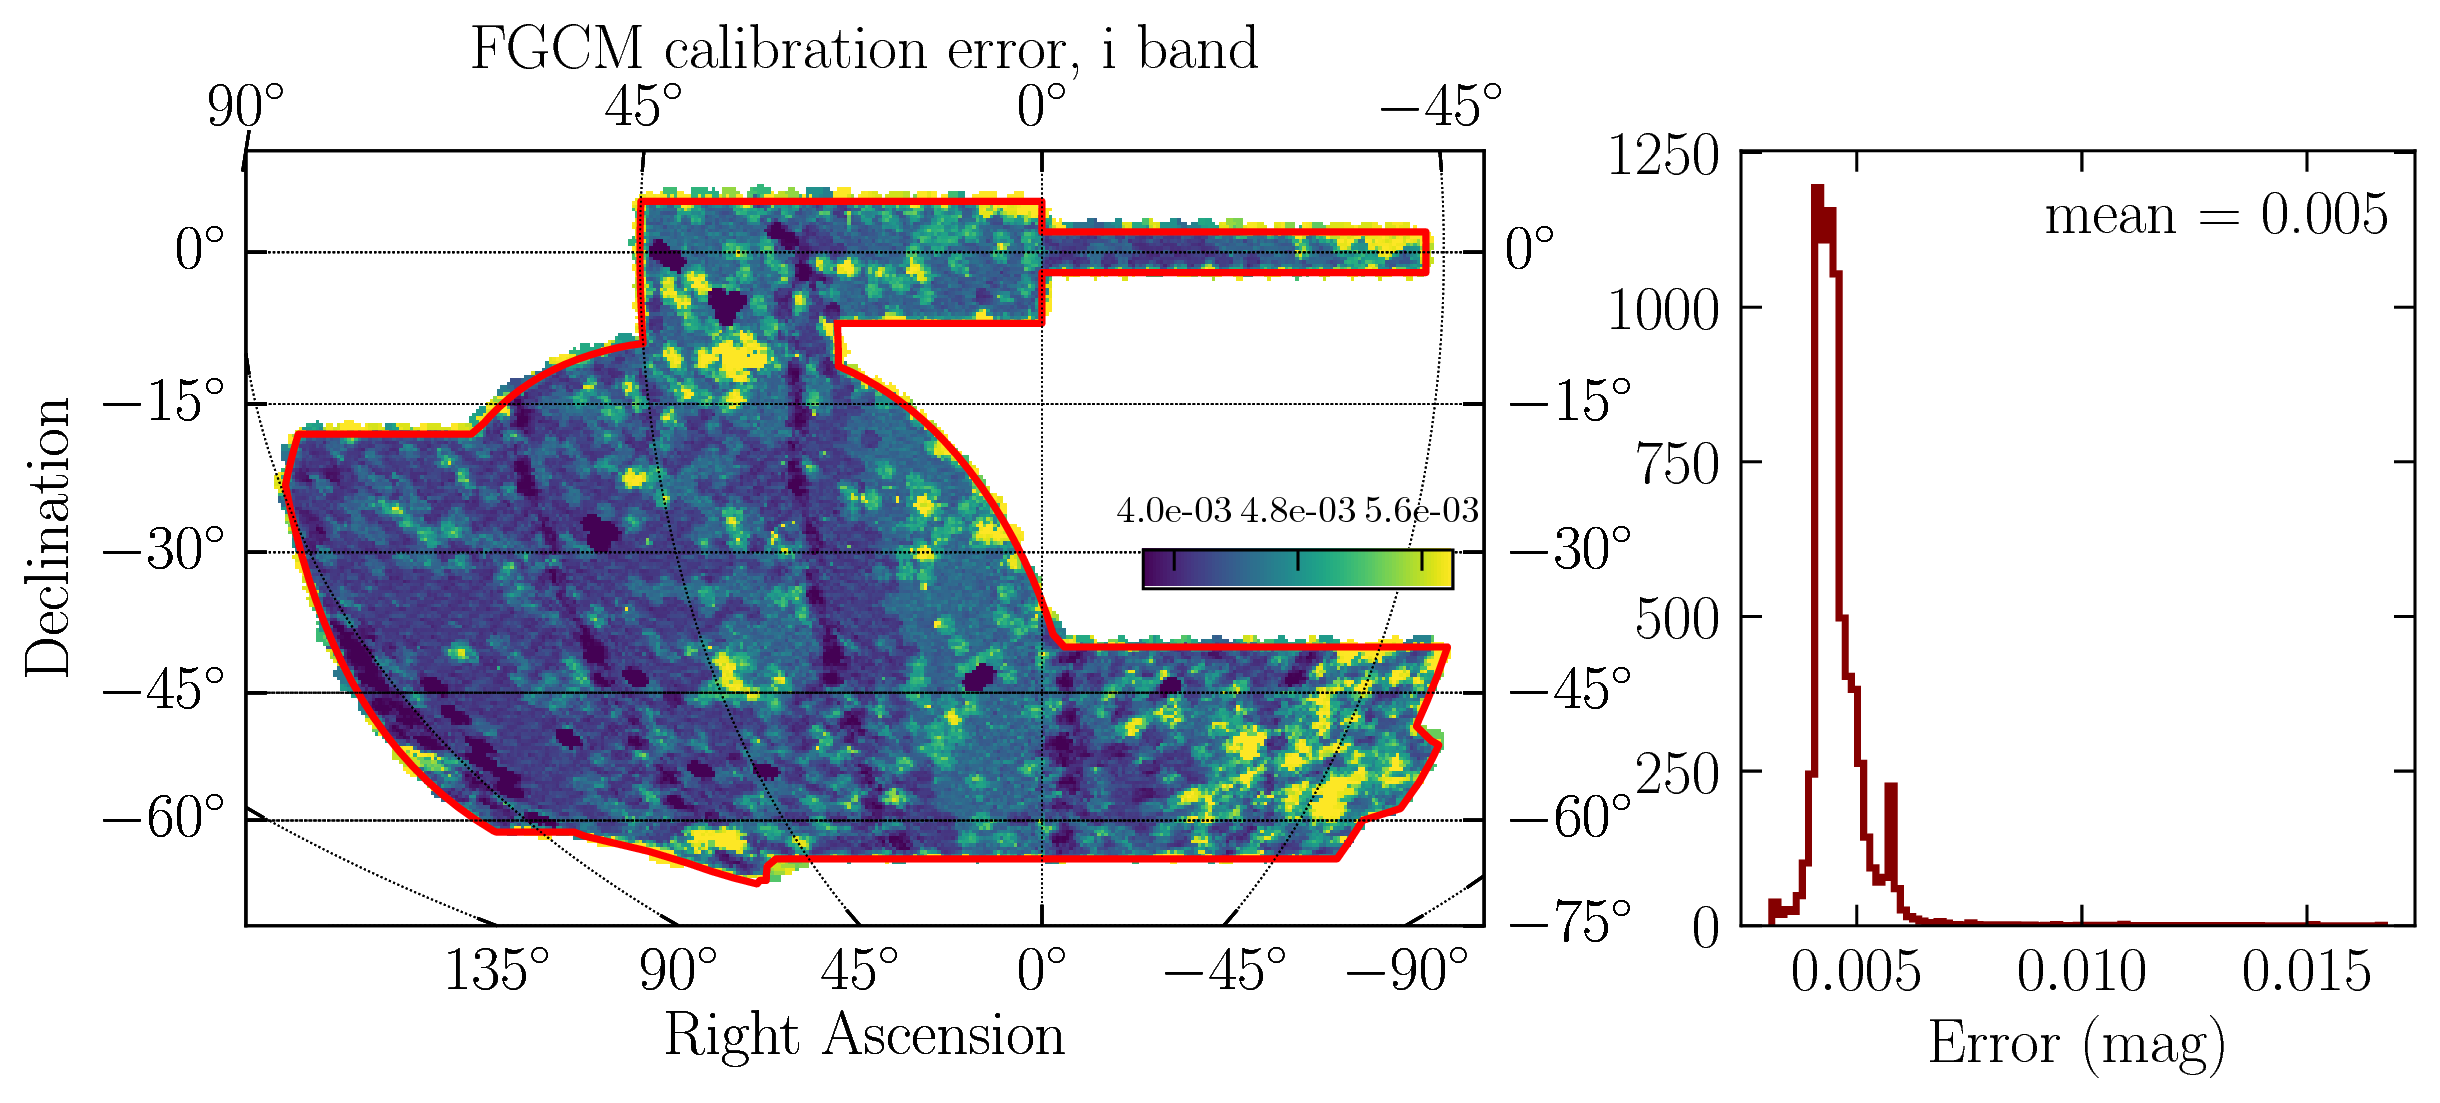
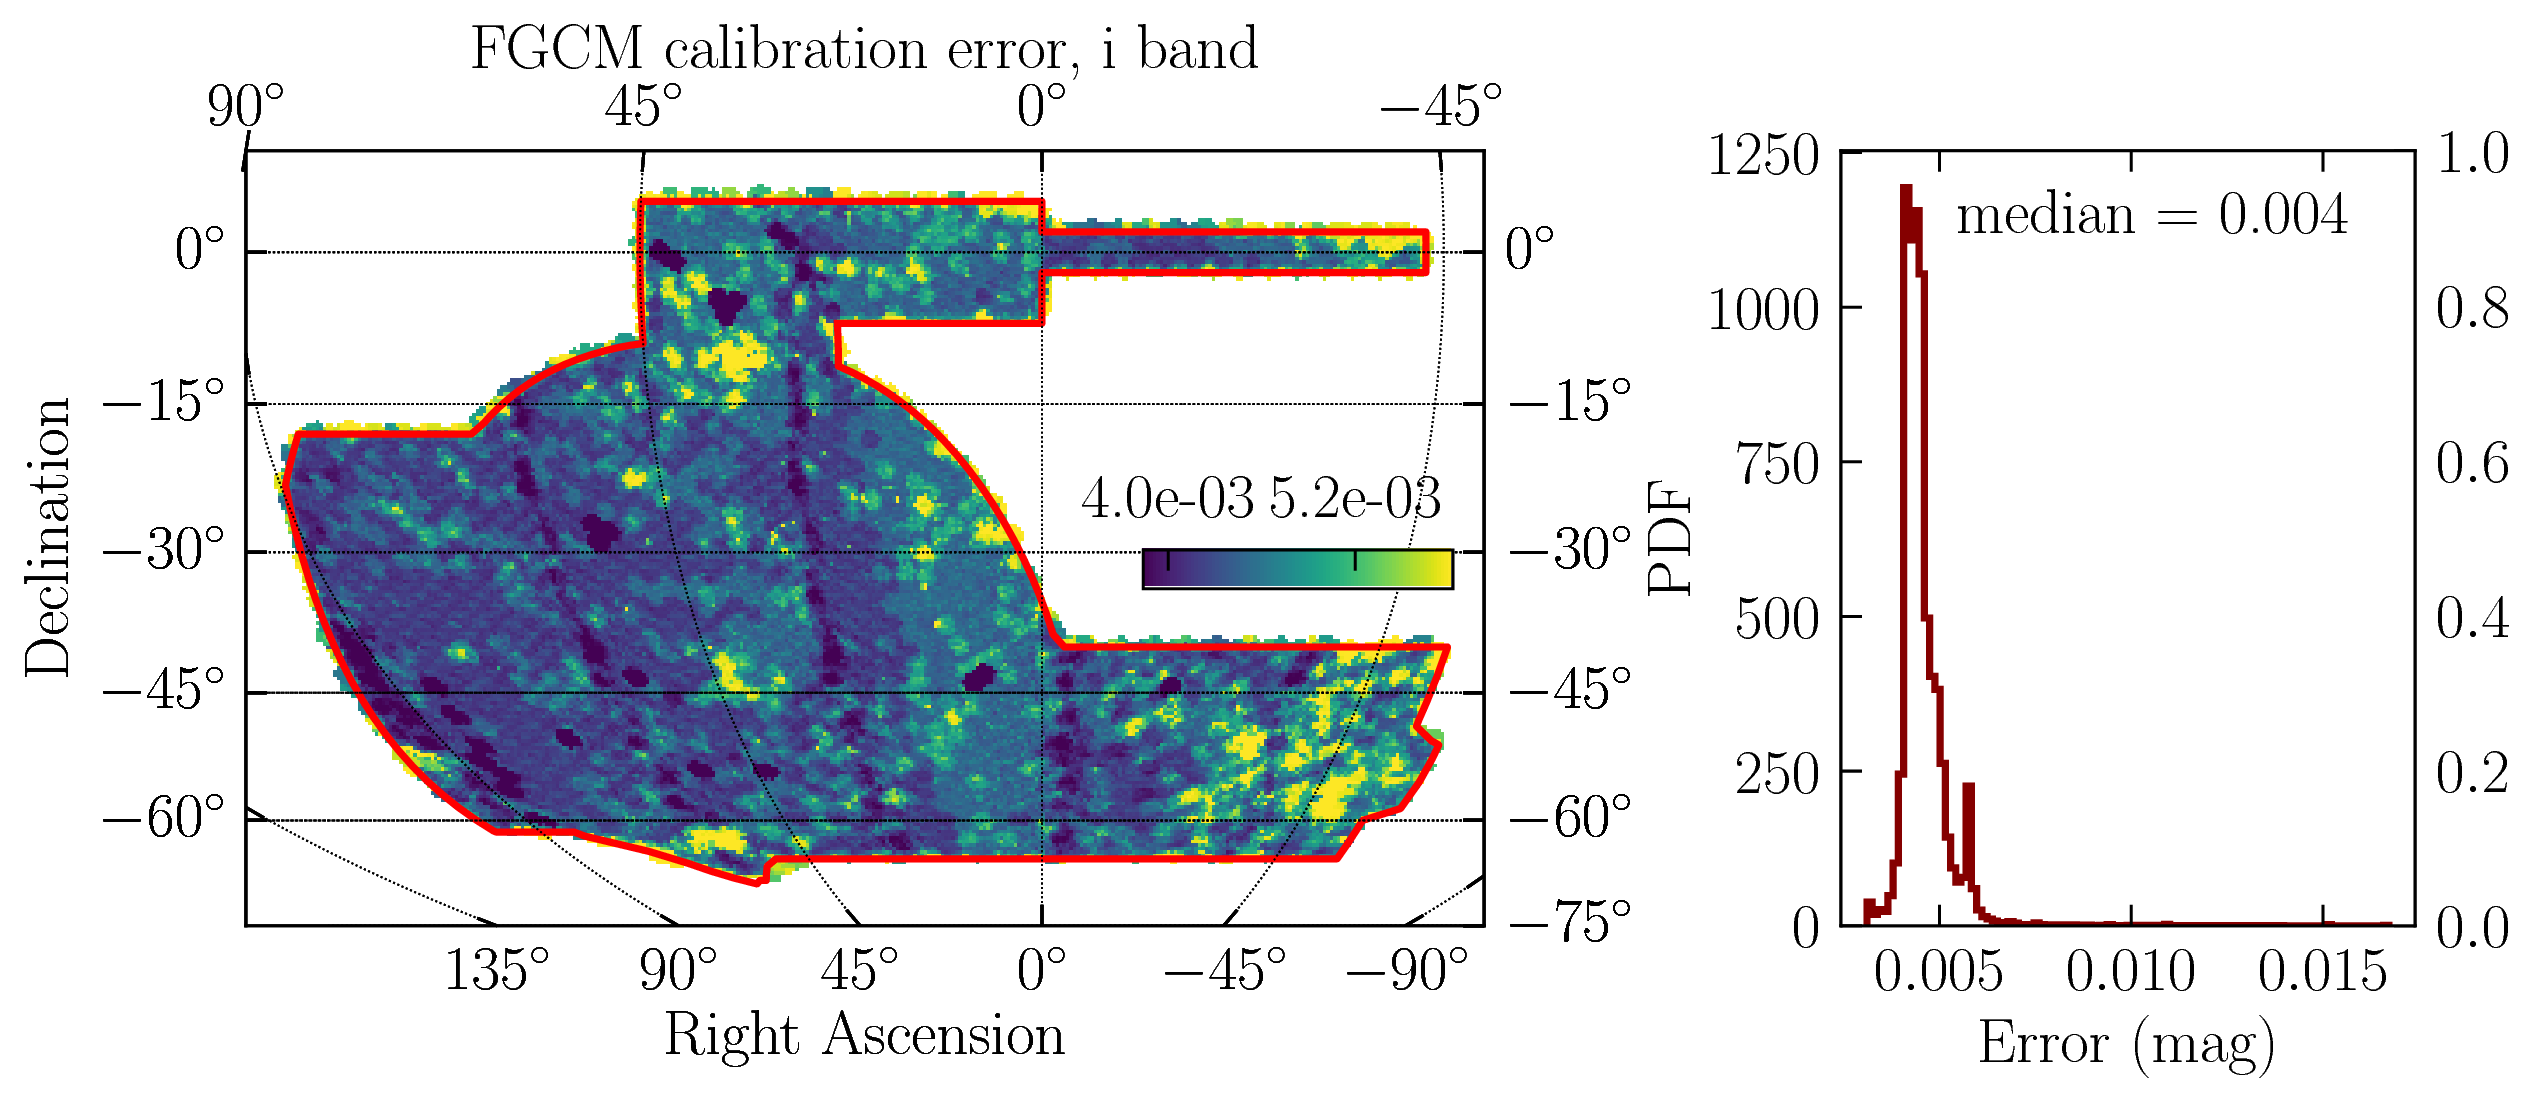
additions to dr1-quality

diff --git a/static/des_components/des-dr1/des-dr1-quality.html b/static/des_components/des-dr1/des-dr1-quality.html
@@ -18,25 +18,25 @@
 </style>
 
 <paper-dialog id="dialogfig1">
-        <des-img-big src="/static/images/dr1/gaia_astro_residual.png">Figure 1. Absolute astrometric precision against an external source, namely, Gaia stars with G<sub>Gaia</sub> ~ 16. On the left is plotted the mean value of astrometric discrepancy with Gaia vs sky position in a HEALPix cell of NSIDE = 256. On the right, the histogram of the overall offset is shown.</des-img-big>
+        <des-img-big src="/static/images/dr1/gaia_astro_residual.png">Figure 1. Absolute astrometric precision (total distance) measured using Gaia DR1 stars with G<sub>Gaia</sub> ~ 16 as an external reference. Left: Mean value of the astrometric discrepancy with respect to Gaia versus sky position computed within HEALPix cells of resolution nside = 256. Right: Normalized histogram showing the distribution of astrometric offsets.</des-img-big>
   <div class="buttons">
     <paper-button class="desButton" raised dialog-confirm autofocus>Close</paper-button>
   </div>
 </paper-dialog>
 <paper-dialog id="dialogfig2">
-       <des-img-big src="/static/images/dr1/fgcm_calib_error_i_nozpcorr.png">Figure 2. FGCM calibration error. On the left is plotted the mean value of this residual vs sky position in a HEALPix cell of NSIDE = 256. On the right, the histogram of the photometric residue is shown.</des-img-big>
+       <des-img-big src="/static/images/dr1/fgcm_calib_error_i_nozpcorr.png">Figure 2. Statistical uncertainty of coadd zeropoints in the i-band estimated from the FGCM photometric calibration. Left: Mean value of the uncertainty vs. sky position, computed within HEALPix cells of resolution nside = 256. Right: Normalized histogram showing the distribution of zeropoint uncertainties over the footprint.</des-img-big>
   <div class="buttons">
     <paper-button class="desButton" raised dialog-confirm autofocus>Close</paper-button>
   </div>
 </paper-dialog>
 <paper-dialog id="dialogfig3">
-       <des-img-big src="/static/images/dr1/gaia_phot_residual_nozpcorr.png">Figure 3.  The distribution of photometric residuals against the Gaia’s G band across the DES footprint is used the evaluate the uniformity of the coadd FGCM calibration. On the left is plotted the mean value of this residual vs sky position in a HEALPix cell of NSIDE = 256. On the right, the histogram of the photometric residue is shown.</des-img-big>
+       <des-img-big src="/static/images/dr1/gaia_phot_residual_nozpcorr.png">Figure 3. The distribution of photometric residuals against Gaia’s G band (mag units) across the DES footprint is used the evaluate the uniformity of the coadd FGCM calibration. Left: Mean value of this residual vs sky position in a HEALPix cell of nside = 256. Right: Normalized histogram of photometric residuals over the footprint.</des-img-big>
   <div class="buttons">
     <paper-button class="desButton" raised dialog-confirm autofocus>Close</paper-button>
   </div>
 </paper-dialog>
 <paper-dialog id="dialogfig4">
-       <des-img-big src="/static/images/dr1/dr1_magauto.png">Figure 4. Source counts using SExtractor’s MAG_AUTO quantity.</des-img-big>
+       <des-img-big src="/static/images/dr1/dr1_magauto.png">Figure 4.  Normalized histograms of source counts binned by SExtractor’s MAG_AUTO quantity showing the flux distribution of detected sources.</des-img-big>
   <div class="buttons">
     <paper-button class="desButton" raised dialog-confirm autofocus>Close</paper-button>
   </div>
@@ -48,7 +48,7 @@
   </div>
 </paper-dialog>
 <paper-dialog id="dialogfig6">
-       <des-img-big src="/static/images/dr1/dr1_maglim_hist.png">Figure 6. Catalog depth estimated for a 2'' aperture (MAG_AUTO_4) using mangle.<br /></des-img-big>
+       <des-img-big src="/static/images/dr1/dr1_maglim_hist.png">Figure 6. Catalog depth estimated for a 1.95'' aperture (MAG_APER_4) using mangle.<br /></des-img-big>
   <div class="buttons">
     <paper-button class="desButton" raised dialog-confirm autofocus>Close</paper-button>
   </div>
@@ -90,7 +90,7 @@
   </div>
 </paper-dialog>
 <paper-dialog id="dialogfig13">
-    <des-img-big src="/static/images/dr1/dr1_roc.png">Figure 13.  Receiver operating characteristic (ROC) curve for a stellar selection in the magnitude range 22.5 &lt; MAG_AUTO_I &lt; 23.0. The SPREAD_MODEL outperforms CLASS_STAR in classification accuracy of DES DR1 objects with respect to HSC-SSP.</des-img-big>
+    <des-img-big src="/static/images/dr1/dr1_roc_22.0_22.5.png">Figure 13. Receiver operating characteristic (ROC) curve for a stellar selection in the magnitude range 22.0 < MAG_AUTO_I < 22.5. The SPREAD_MODEL outperforms CLASS_STAR in classification accuracy of DES DR1 objects with respect to HSC-SSP.</des-img-big>
   <div class="buttons">
     <paper-button class="desButton" raised dialog-confirm autofocus>Close</paper-button>
   </div>
@@ -141,7 +141,7 @@
             <br /><a href="javascript:void(0)" on-tap="_dialog" data-item="1"/>Figure 1</a> shows that the residuals are smallest in regions with with larger stellar densities closer to the Galactic plane (for comparison, see <a href="javascript:void(0)" on-tap="_dialog" data-item="10"/>Figure 10</a> ), and the mean over the footprint is ~145 mas. Further details of astrometric calibration, including ongoing development using Gaia as a reference catalog, are provided in <a href="http://adsabs.harvard.edu/abs/2017PASP..129g4503B">Bernstein et al. (2017b</a>).</p>
         <p><br /> </p>
 
-        <des-img-big src="/static/images/dr1/gaia_astro_residual.png" on-tap="_dialog" data-item="1">Figure 1. Absolute astrometric precision against an external source, namely, Gaia stars with G<sub>Gaia</sub> ~ 16. On the left is plotted the mean value of astrometric discrepancy with Gaia vs sky position in a HEALPix cell of NSIDE = 256. On the right, the histogram of the overall offset is shown.</des-img-big>
+        <des-img-big src="/static/images/dr1/gaia_astro_residual.png" on-tap="_dialog" data-item="1">Figure 1.  Absolute astrometric precision (total distance) measured using Gaia DR1 stars with G<sub>Gaia</sub> ~ 16 as an external reference. Left: Mean value of the astrometric discrepancy with respect to Gaia versus sky position computed within HEALPix cells of resolution nside = 256. Right: Normalized histogram showing the distribution of astrometric offsets</des-img-big>
 
         <div class="fixup" id="quality_photo"></div>
         <h3 class="fixdown">Photometry  &nbsp; &nbsp; <a style="font-size:13px" href="javascript:void(0)" on-tap="_top">(Top)</a></h3>
@@ -150,12 +150,12 @@
             <br />
         </p>
 
-       <des-img src="/static/images/dr1/fgcm_calib_error_i_nozpcorr.png" on-tap="_dialog" data-item="2">Figure 2. FGCM calibration error. On the left is plotted the mean value of this residual vs sky position in a HEALPix cell of NSIDE = 256. On the right, the histogram of the photometric residue is shown. <br /></des-img>
+       <des-img src="/static/images/dr1/fgcm_calib_error_i_nozpcorr.png" on-tap="_dialog" data-item="2">Figure 2. Statistical uncertainty of coadd zeropoints in the i-band estimated from the FGCM photometric calibration. Left: Mean value of the uncertainty vs. sky position, computed within HEALPix cells of resolution nside = 256. Right: Normalized histogram showing the distribution of zeropoint uncertainties over the footprint. <br /></des-img>
 
 
-       <des-img src="/static/images/dr1/gaia_phot_residual_nozpcorr.png" on-tap="_dialog" data-item="3">Figure 3.  The distribution of photometric residuals against the Gaia’s G band across the DES footprint is used the evaluate the uniformity of the coadd FGCM calibration. On the left is plotted the mean value of this residual vs sky position in a HEALPix cell of NSIDE = 256. On the right, the histogram of the photometric residue is shown.</des-img>
+       <des-img src="/static/images/dr1/gaia_phot_residual_nozpcorr.png" on-tap="_dialog" data-item="3">Figure 3.  The distribution of photometric residuals against Gaia’s G band (mag units) across the DES footprint is used the evaluate the uniformity of the coadd FGCM calibration. Left: Mean value of this residual vs sky position in a HEALPix cell of nside = 256. Right: Normalized histogram of photometric residuals over the footprint.</des-img>
 
-        <p>The single-epoch photometric statistical precision (associated with random errors in the FGCM fit parameters) derived from repeated measurements of FGCM calibration stars is 7.3, 6.1, 5.9, 7.3, 7.8 mmag in the g, r, i, z, and Y bands, respectively. Under the assumption that successive tiled observations of the same fields yield largely independent model fit parameters (as would be expected from the widely spaced observations in DES), we estimate the statistical precision of coadd zeropoints by combining the fit results from overlapping exposures. The median coadd zeropoint statistical uncertainty for the g, r, i, z, and Y band is 5, 4, 5, 6, and 5 mmag, respectively.  <a href="javascript:void(0)" on-tap="_dialog" data-item="2"/>Figure 2</a> shows an example distribution for the i band. As a validation, we compare the photometric uniformity of DES DR1 to the space-based Gaia G-ban photometry (<a href="javascript:void(0)" on-tap="_dialog" data-item="3"/>Figure 3</a>). Variations in uniformity are found to be 6.6 mmag, as estimated from a Gaussian fit to the offset distribution between G<sub>Gaia</sub> and G<sub>pred</sub>(r) predicted from the DES r-band.</p>
+        <p>The single-epoch photometric statistical precision (associated with random errors in the FGCM fit parameters) derived from repeated measurements of FGCM calibration stars is 7.3, 6.1, 5.9, 7.3, 7.8 mmag in the g, r, i, z, and Y bands, respectively. Under the assumption that successive tiled observations of the same fields yield largely independent model fit parameters (as would be expected from the widely spaced observations in DES), we estimate the statistical precision of coadd zeropoints by combining the fit results from overlapping exposures. The median coadd zeropoint statistical uncertainty for the g, r, i, z, and Y band is 5, 4, 5, 6, and 5 mmag, respectively.  <a href="javascript:void(0)" on-tap="_dialog" data-item="2"/>Figure 2</a> shows an example distribution for the i band. As a validation, we compare the photometric uniformity of DES DR1 to the space-based Gaia G-band photometry (<a href="javascript:void(0)" on-tap="_dialog" data-item="3"/>Figure 3</a>). Variations in uniformity are found to be 6.6 mmag, as estimated from a Gaussian fit to the offset distribution between G<sub>Gaia</sub> and G<sub>pred</sub>(r) predicted from the DES r-band.</p>
         <p>To account for extinction from interstellar dust, we include an additional column in the DR1 photometry tables for E(B - V) values from the reddening map of <a href="http://adsabs.harvard.edu/abs/1998ApJ...500..525S">Schlegel et al. (1998)</a> (SFD98) at the location of each catalog object. The E(B -V) values were obtained using a linear interpolation of the Zenithal Equal Area projected map distributed by SFD98. We computed fiducial interstellar extinction coefficients, R<sub>b</sub>, for each band so that the corrections to the FGCM calibrated source magnitudes are A<sub>b</sub> = E(B -V)R<sub>b</sub>. Fiducial coefficients are derived using the <a href="http://adsabs.harvard.edu/abs/1999PASP..111...63F">Fitzpatrick (1999)</a> reddening law with R<sub>V</sub> = 3.1 and the <a href="http://adsabs.harvard.edu/abs/2011ApJ...737..103S">Schlafly &amp; Finkbeiner (2011)</a> calibration adjustment to the original SFD98 reddening map (N = 0.78). Note that the <a href="http://adsabs.harvard.edu/abs/2011ApJ...737..103S">Schlafly &amp; Finkbeiner (2011)</a> calibration adjustment is included in our fiducial reddening coefficients; these coefficients are intended to be used directly with E(B -V) values from the original SFD98 reddening map. We integrated over the DR1 Standard Bandpasses considering a fixed source spectrum that is constant in spectral flux density per unit wavelength, and adopted the low-extinction limit. The latter simplification is appropriate for DES, for which E(B-V) &lt; 0.1 mag over ~99% of the footprint. The resulting multiplicative coefficients for each band, R<sub>b</sub>, are 3.186, 2.140, 1.569, 1.196 and 1.048 in the g, r, i, z and Y bands, respectively. The DES science team continues to explore systematic uncertainties associated with interstellar extinction modeling.</p>
         <p><br /> </p>
         <div class="fixup" id="quality_flag"></div>
@@ -180,50 +180,62 @@
             <col/>
           </colgroup>
           <tbody>
-            <tr>
-              <th>Method</th>
-              <th>g</th>
-              <th>r</th>
-              <th>i</th>
-              <th>z</th>
-              <th>Y</th>
-            </tr>
-            <tr>
-              <td>Maximum in number counts (MAG_AUTO)</td>
-              <td>24.32</td>
-              <td>23.89</td>
-              <td>23.41</td>
-              <td>22.09</td>
-              <td>21.40</td>
-            </tr>
-            <tr>
-              <td>Imaging depth from mangle (MAG_APER_4)</td>
-              <td>24.28</td>
-              <td>23.95</td>
-              <td>23.34</td>
-              <td>22.63</td>
-              <td>21.38</td>
-            </tr>
-            <tr>
-              <td>Measured with S/N = 10 (MAG_AUTO)</td>
-              <td>23.52</td>
-              <td>23.10</td>
-              <td>22.51</td>
-              <td>21.81</td>
-              <td>20.61</td>
-            </tr>
-            <tr>
-              <td>Detection completeness of 95% (MAG_AUTO)</td>
-              <td>23.72</td>
-              <td>23.35</td>
-              <td>22.88</td>
-              <td>22.25</td>
-              <td>...</td>
-            </tr>
-          </tbody>
+  <tr>
+    <th>Method</th>
+    <th>g</th>
+    <th>r</th>
+    <th>i</th>
+    <th>z</th>
+    <th>Y</th>
+  </tr>
+  <tr>
+    <td>Maximum in number counts (MAG_AUTO)</td>
+    <td>24.32</td>
+    <td>23.89</td>
+    <td>23.41</td>
+    <td>22.09</td>
+    <td>21.40</td>
+  </tr>
+  <tr>
+    <td>Imaging depth from mangle (MAG_APER_4)</td>
+    <td>24.28</td>
+    <td>23.95</td>
+    <td>23.34</td>
+    <td>22.63</td>
+    <td>
+      <p>21.38</p>
+    </td>
+  </tr>
+  <tr>
+    <td colspan="1">
+      <span>Measured with S/N = 10 (MAG_APER_4)</span>
+    </td>
+    <td colspan="1">24.33</td>
+    <td colspan="1">24.08</td>
+    <td colspan="1">23.44</td>
+    <td colspan="1">22.69</td>
+    <td colspan="1">21.44</td>
+  </tr>
+  <tr>
+    <td>Measured with S/N = 10 (MAG_AUTO)</td>
+    <td>23.52</td>
+    <td>23.10</td>
+    <td>22.51</td>
+    <td>21.81</td>
+    <td>20.61</td>
+  </tr>
+  <tr>
+    <td>Detection completeness of 95% (MAG_AUTO)</td>
+    <td>23.72</td>
+    <td>23.35</td>
+    <td>22.88</td>
+    <td>22.25</td>
+    <td>...</td>
+  </tr>
+</tbody>
         </table>
 
-       <des-img-big src="/static/images/dr1/dr1_magauto.png" on-tap="_dialog" data-item="4">Figure 4. Source counts using SExtractor’s MAG_AUTO quantity.</des-img-big>
+       <des-img-big src="/static/images/dr1/dr1_magauto.png" on-tap="_dialog" data-item="4">Figure 4.  Normalized histograms of source counts binned by SExtractor’s MAG_AUTO quantity showing the flux distribution of detected sources.</des-img-big>
 
 
         <p><br /> </p>
@@ -250,7 +262,7 @@
 
        <des-img src="/static/images/dr1/dr1_coadd_depth_sn10.png" on-tap="_dialog" data-item="5">Figure 5. Catalog depth estimated for MAG_AUTO using catalog objects with S/N = 10 (MAGERR_AUTO = 0.10857.</des-img>
 
-       <des-img src="/static/images/dr1/dr1_maglim_hist.png" on-tap="_dialog" data-item="6">Figure 6. Catalog depth estimated for a 2'' aperture (MAG_AUTO_4) using mangle.<br /></des-img>
+       <des-img src="/static/images/dr1/dr1_maglim_hist.png" on-tap="_dialog" data-item="6">Figure 6. Catalog depth estimated for a 1.95'' aperture (MAG_APER_4) using mangle.<br /></des-img>
 
         <p><br /> </p>
         <div class="fixup" id="quality_complete"></div>
@@ -289,7 +301,7 @@
         <p>
           <br/>
         </p>
-         <des-img-big src="/static/images/dr1/dr1_roc.png" on-tap="_dialog" data-item="13">Figure 13.  Receiver operating characteristic (ROC) curve for a stellar selection in the magnitude range 22.5 &lt; MAG_AUTO_I &lt; 23.0. The SPREAD_MODEL outperforms CLASS_STAR in classification accuracy of DES DR1 objects with respect to HSC-SSP.</des-img-big>
+         <des-img-big src="/static/images/dr1/dr1_roc_22.0_22.5.png" on-tap="_dialog" data-item="13">Figure 13.  Receiver operating characteristic (ROC) curve for a stellar selection in the magnitude range 22.0 < MAG_AUTO_I < 22.5. The SPREAD_MODEL outperforms CLASS_STAR in classification accuracy of DES DR1 objects with respect to HSC-SSP.</des-img-big>
         <p>
           <br/>
         </p>
